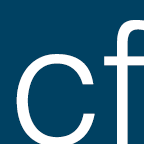
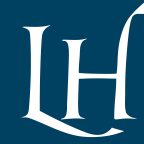
update masthead

Changed region(s): [[0.1111, 0.0, 1.0, 1.0]]

diff --git a/_layouts/default.html b/_layouts/default.html
@@ -16,9 +16,6 @@
             <a href="{{ site.baseurl }}/" title="Home" title="{{ site.title }}">
               <img class="masthead-logo" src="{{ site.baseurl }}{{ site.logo }}"/>
             </a>
-			<a href="{{ site.baseurl }}/" title="Home" title="{{ site.title }}">
-              <small>{{ site.tagline }}</small>
-			</a>
           </h3>
         </div>
       </div>

diff --git a/_scss/component/_masthead.scss b/_scss/component/_masthead.scss
@@ -7,7 +7,7 @@
 .masthead {
   padding-top:    1rem;
   padding-bottom: 1rem;
-  margin-bottom: 3rem;
+  margin-bottom: 0rem;
   border-bottom: 1px solid $lightgrey;
   background-color: rgba(255,255,255,0.75);
   @media (min-width: 30rem) {

diff --git a/_posts/2018-07-18-ErasMar01.04.md b/_posts/2018-07-18-ErasMar01.04.md
@@ -11,7 +11,7 @@ comments: false
 
 > The spirit of Satan and the world loves lofty, puffed up, ferocious minds, and makes them so. But that heavenly Spirit loves moderate, gentle, and calm minds. Nothing is more simple than a dove, or more unlike war and plunder.
 
-How have I been ceding to the spirit of the world, letting my mind become corrupt as I seek greater power?
+As we often hear of good Christians, though we rarely try to be at peace. On the other hand...
 
 > Non est ignavus aut languidus Spiritus ille coelestis, igneus est; ac statim vim suam exserit, ubi semel corripuerit animum hominis: segnis ac lentus est spiritus humanus, neque quidquam cogitat, nisi terrena et humilia. Ceterum in quibus iam mortificatus est spiritus carnis, et aguntur Spiritu Dei, mox ad fortia sublimiaque grassantur, ad certamen cum immundo Spiritu, quem non dubitant in se provocare: nimirum freti praesidio Spiritus coelestis, qui fortior est omnibus qui repugnant Evangelio. Iesus igitur in se exprimens, quid a nobis fieri vellet, statim a baptismo Spiritus vigore actus est in desertum.
 
